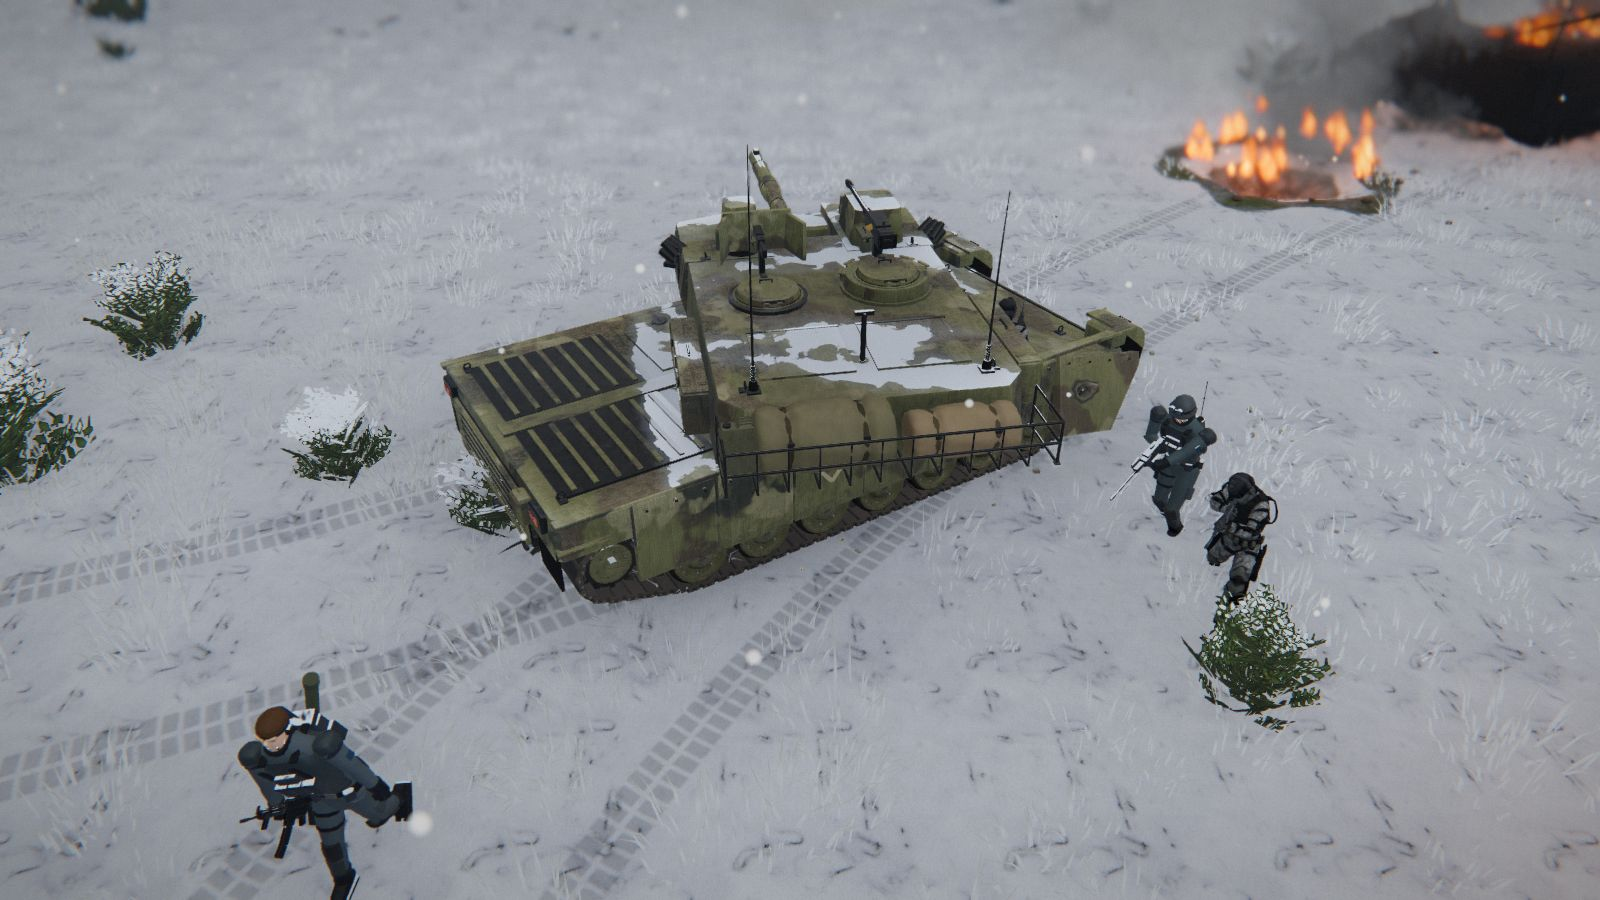
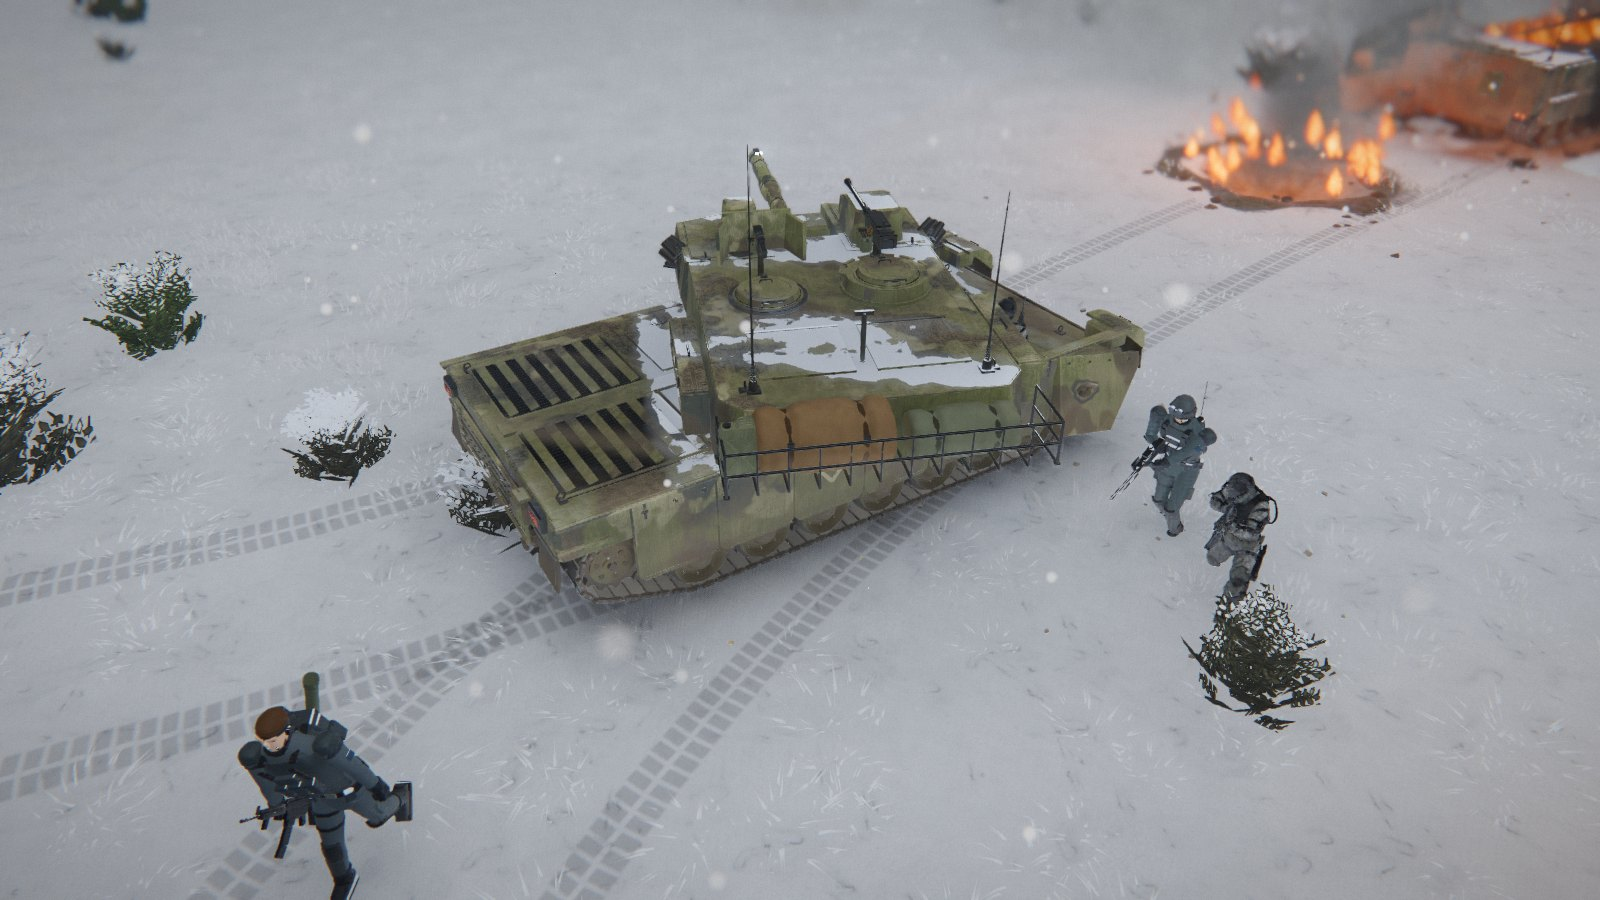
Show the natural snow in the changelog: the town, a street, a warm roof, the drifts, the tank

diff --git a/changelog/unreleased/snow.md b/changelog/unreleased/snow.md
@@ -5,11 +5,19 @@ kind = "new"
 
 [[screenshots]]
 file = "town-in-snow.jpg"
-caption = "A town in falling snow: white roofs and fields, slushy streets, trees heavy with snow and the mountains lost in the haze."
+caption = "A town in falling snow. The snow lies unevenly with the land: the rises facing the wind are scoured to pale straw, the hollows and lee slopes are deep and white, and the roofs differ house by house."
+
+[[screenshots]]
+file = "street-in-snow.jpg"
+caption = "The town square: streets ploughed with low banks along the kerbs and black slush in the wheel lines, the paving trodden grey, dead grass showing through the thin snow on the open lot, and a warm house thawing round its chimney."
+
+[[screenshots]]
+file = "roofs-in-snow.jpg"
+caption = "A warm house's roof: the snow curls over the eaves in a rounded lip with icicles under it, and has thawed in wet patches with grey slush round them. The wall stays bare."
 
 [[screenshots]]
 file = "tank-in-snow.jpg"
-caption = "A tank that has been fighting carries snow only in patches on its flat tops: it has slid off the glacis and sides, the warm engine deck is bare and wet, and its colours show through."
+caption = "A tank that has been fighting carries snow only in patches on its flat tops: it has slid off the glacis and sides, the warm engine deck is bare and wet, and the shrubs round it have browned for the winter."
 
 [[screenshots]]
 file = "melt-in-snow.jpg"
@@ -17,7 +25,7 @@ caption = "Heat melts it: a burning wreck has thawed the ground round it to dark
 
 [[screenshots]]
 file = "drifts-in-snow.jpg"
-caption = "The wind (blowing left to right here) heaps the snow against a hedgerow and a stone wall: deepest against the side away from the wind and thinning out a few metres beyond, with a smaller bank on the windward side."
+caption = "The wind (blowing left to right here) heaps the snow against a hedgerow and a stone wall: a rounded crest in the lee, tailing off a few metres beyond and meeting the ground with no edge, with a smaller bank on the windward side. The wall's faces stay bare."
 
 [[screenshots]]
 file = "comparison.jpg"

diff --git a/docs/FEATURES.md b/docs/FEATURES.md
@@ -1353,9 +1353,9 @@ av.gd`, `hnav.gd`, `terrain.gd`, `squad.gd`)
   warm roof thaws in wet, dark patches and bare round the chimney; and `SnowRoof` gives it a body of snow its faces
   can't: a rounded lip curling over the eaves (thicker on steep sheet, broken where some fell, thinner up the
   gables), icicles in runs under a warm house's eaves, and on a flat roof drifts against the parapets, deep in the
-  lee of the one the wind comes over. Under the trees (`Woodland`) the leaf litter and toadstools are buried, every
+  lee of the one the wind comes over. Under the trees (`Woodland`) the leaf litter, toadstools and root flares are buried, every
   trunk stands in a well of bare needles its crown kept the snow off, ferns and nettles go to winter brown with snow
-  in clumps on their upper fronds (the pine saplings keep their green), and deadwood, root flares and mossy stones
+  in clumps on their upper fronds (the pine saplings keep their green), and deadwood and mossy stones
   carry it on their tops. A vehicle
   (`Vehicle._snow_view`, the `snow_k` instance value) keeps it only on its flat tops (deck, turret roof, fenders,
   stowage), in patches of its own, while the glacis and sides shed it and the warm engine deck stays bare and wet;
